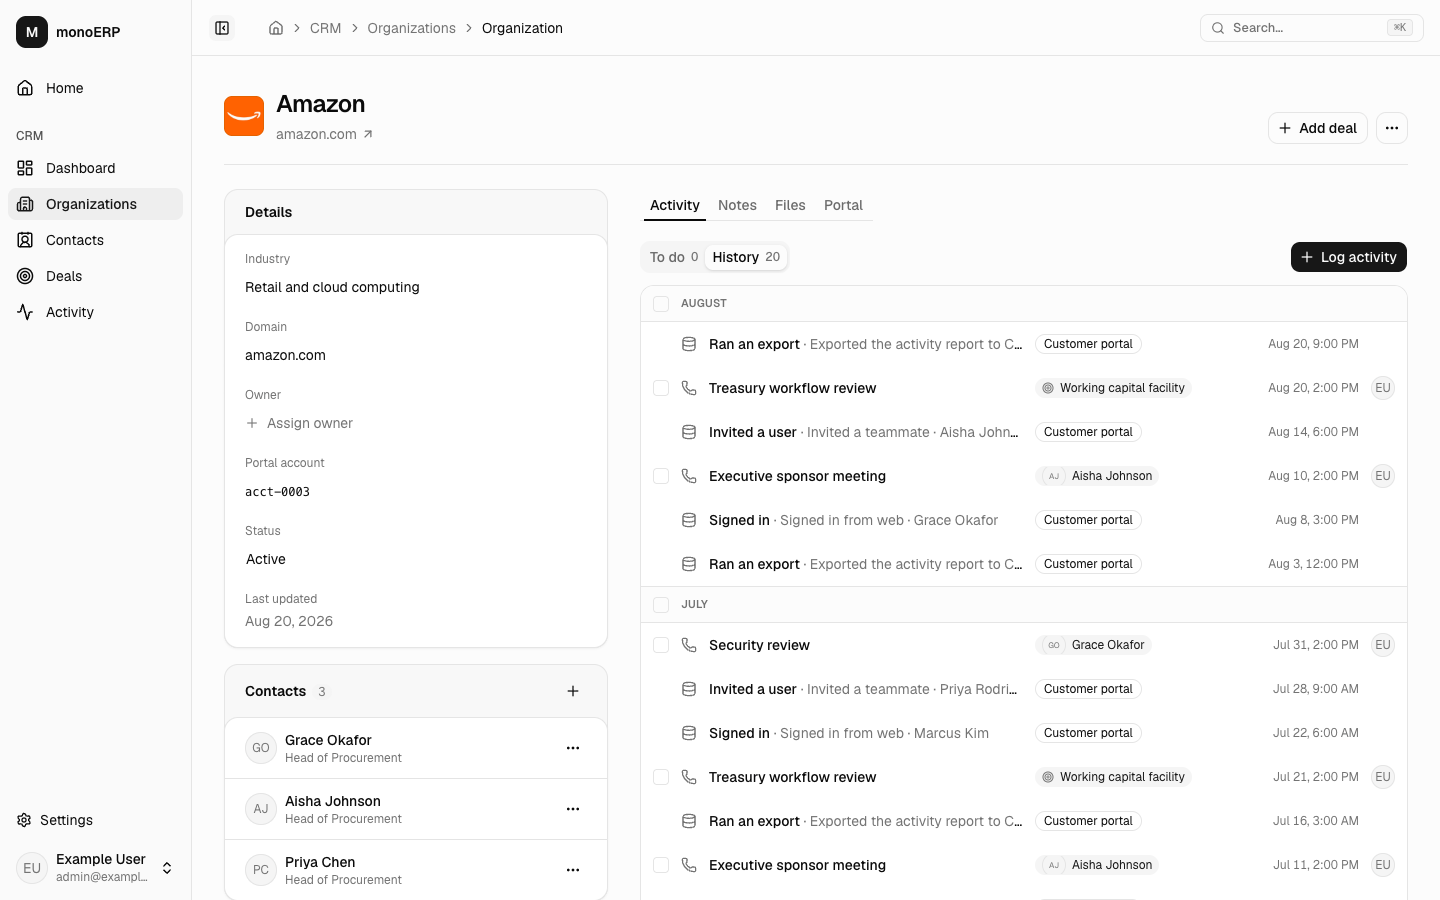
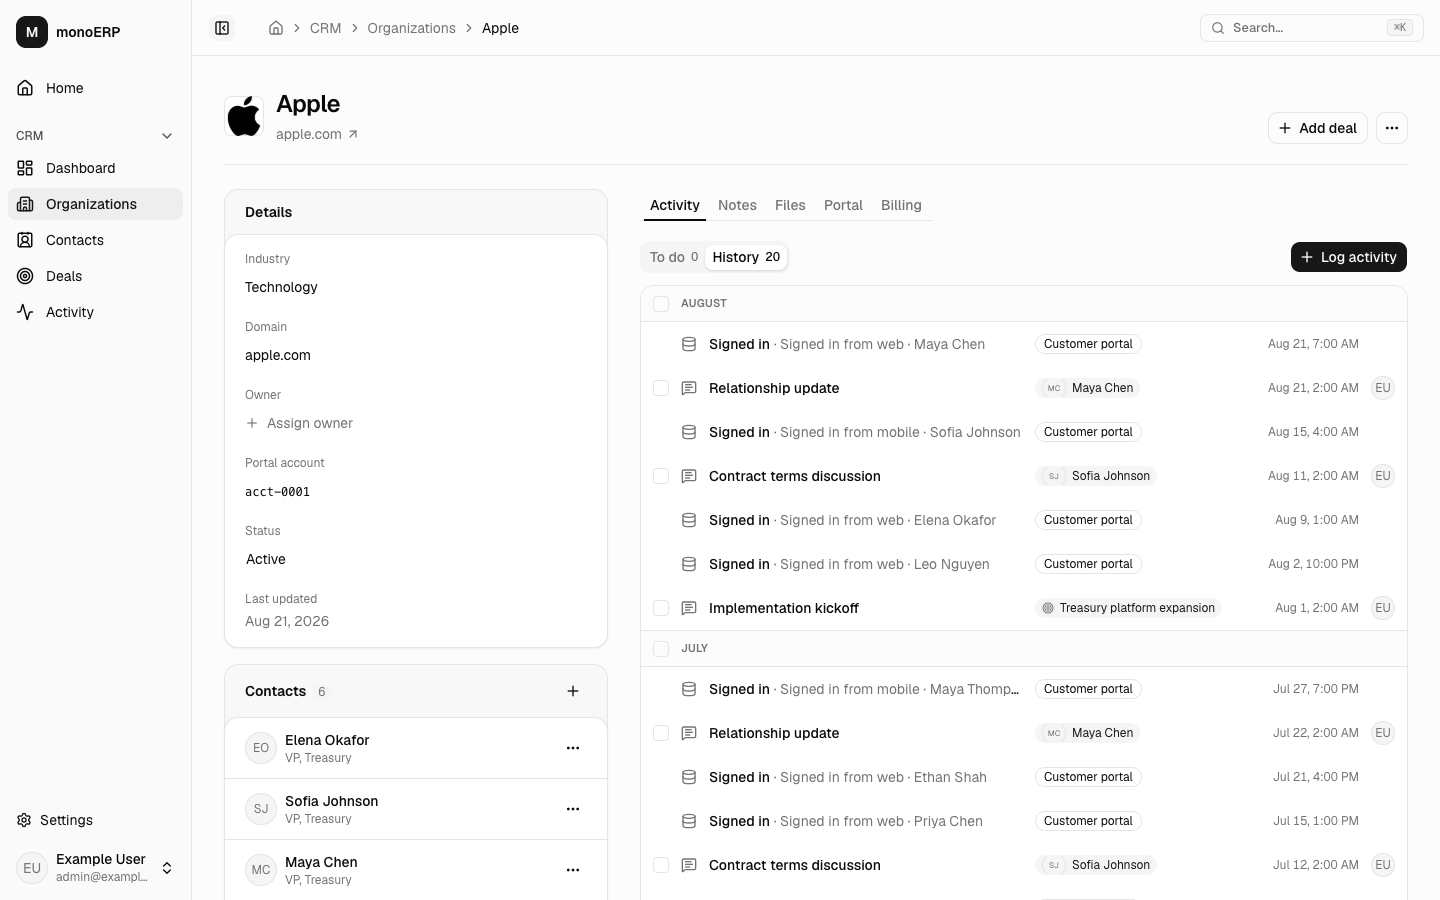
Rewrite the monoERP README in the shared format with a fresh hero

diff --git a/starters/monoerp/README.md b/starters/monoerp/README.md
@@ -21,17 +21,24 @@
 </p>
 
 <p align="center">
-  <img alt="An organization in monoERP: CRM details and contacts, with an activity history that mixes CRM calls and meetings with customer portal events from a separate database" src=".github/assets/organization.png" width="900">
+  <img alt="An organization in monoERP: CRM details and contacts, Portal and Billing tabs from other sources, and an activity history that mixes CRM meetings with customer portal events from a separate database" src=".github/assets/organization.png" width="900">
 </p>
 
-## What this is
+## What's inside
 
-Most business data doesn't live in one place. The sales team's records are in one database, and the product's customer data is in another, owned by another team. monoERP shows what building on top of that looks like, without copying data around.
+Most business data doesn't live in one place. The sales team's records are in one database, and the product's customer data is in another, owned by another team. monoERP shows what building on top of that looks like, without copying data around. An organization's page shows its CRM record next to its plan, seats, support tickets, and payments, and it doesn't feel like three systems.
 
-- **CRM module:** organizations, contacts, deals, and activity, stored in PostgreSQL.
-- **Portal (optional demo):** a demo of Monospace's MySQL connector, installed by default to show read-only joins across databases. Remove Stripe first while CRM is installed, then run `pnpm app:remove portal`, then follow the [shared removal steps](connectors/README.md#remove-a-module-connector-or-deploy-target). CRM still works; Portal UI and the dependent Billing tab disappear. See [Portal setup](connectors/portal/README.md).
-- **Stripe (optional demo):** billing, read through a custom Monospace data connector (`connectors/stripe`). Locally it runs against a Stripe emulator, so no Stripe account is needed.
-- **Monospace** joins all three into one typed API with one set of permissions. An organization's page shows its CRM record next to its plan, seats, support tickets, and payments, and it doesn't feel like three systems.
+| Part                        | Kind          | What it adds                                            |
+| --------------------------- | ------------- | ------------------------------------------------------- |
+| [CRM](modules/crm)          | Module        | Organizations, contacts, and deals.                     |
+| [Portal](connectors/portal) | Connector     | Example customer database (a MySQL demo you can remove) |
+| [Stripe](connectors/stripe) | Connector     | Billing data from Stripe                                |
+| [AWS deploy](deploy/aws)    | Deploy target | Fargate, RDS and GitHub OIDC with Alchemy               |
+
+- **CRM** stores organizations, contacts, deals, and activity in PostgreSQL.
+- **Portal** is a read-only MySQL demo, installed by default to show joins across databases. Remove it and CRM still works; the Portal tab and the Billing tab that depends on it disappear.
+- **Stripe** is billing, read through a custom Monospace data connector. Locally it runs against a Stripe emulator, so no Stripe account is needed.
+- **Monospace** joins all three into one typed API with one set of permissions.
 
 More modules can plug in next to the CRM. The app is TanStack Start, React, Tailwind, and shadcn/ui.
 
@@ -40,11 +47,24 @@ More modules can plug in next to the CRM. The app is TanStack Start, React, Tail
 
 ## Quickstart
 
-You need Node 24, pnpm, and Docker. Run `pnpm install` before Docker; it generates the Compose include file.
+You need Node 24, pnpm, and Docker.
+
+Once the Monospace CLI ships `create`, it asks which modules, connectors, and deploy target to keep, then prints the commands below:
+
+```bash
+npx @monospace/cli create my-erp
+```
+
+Until then, download the starter as it is:
 
 ```bash
 npx giget@latest gh:directus/monospace-starter/starters/monoerp monoerp
 cd monoerp
+```
+
+Then run it. `pnpm install` goes before Docker; it generates the Compose include file.
+
+```bash
 cp .env.example .env    # local defaults; change nothing to start
 pnpm install
 docker compose up -d --wait --wait-timeout 180 # Monospace, both databases, a local Stripe, RabbitMQ, Mailpit
@@ -92,6 +112,7 @@ This repo is set up for working with AI coding agents like Claude Code, Codex, a
 | `pnpm test`                                   | Unit tests                                                            |
 | `pnpm --filter @monoerp/web test:browser`     | Browser tests in Chromium, no server needed                           |
 | `pnpm format`                                 | Fix formatting                                                        |
+| `pnpm app:doctor`                             | List the installed parts and check their manifests                    |
 | `pnpm setup:all`                              | Configure the Monospace workspace. Safe to rerun after pulling        |
 | `pnpm build:extensions`                       | Rebuild selected connectors; Monospace picks them up on its own       |
 | `pnpm generate`                               | Rebuild the typed Monospace client after a schema change              |
@@ -99,26 +120,38 @@ This repo is set up for working with AI coding agents like Claude Code, Codex, a
 | `pnpm schema:export`                          | Save Studio changes (labels, field order, and so on) back to the repo |
 | `docker compose --profile full up -d --build` | Run the app in a container too, behind Caddy                          |
 
-## How it fits together
+## Project layout
+
+```text
+apps/web/         The TanStack Start app: shell, sign-in, shared components, generated client
+modules/crm/      The CRM: manifest, pages, reads, writes, SQL, demo data, setup
+connectors/       Portal (MySQL demo) and Stripe (extension, emulator, Billing UI)
+deploy/aws/       Optional AWS deploy
+infra/            Shared Monospace setup, PostgreSQL, Caddy, installed connector builds
+docs/             The guides
+starter.json      Shared ownership manifest and the commands the CLI prints
+```
 
 The browser only talks to the app's own address. The app's server proxies `/api/*` to Monospace, so the Monospace session cookie stays same-origin. Screens call Monospace straight from the browser with the generated SDK and TanStack Query. There's no app database and no API layer of our own.
 
-A module is one folder, `modules/<id>`: manifest, UI, routes, and infrastructure. See [the module layout](docs/modules.md#add-a-module).
-
-| Area           | Path                                                                | Purpose                                                               |
-| -------------- | ------------------------------------------------------------------- | --------------------------------------------------------------------- |
-| Core           | `starter.json`                                                      | Shared ownership manifest                                             |
-| Core           | `apps/web/src/shell`, `apps/web/src/lib`, `apps/web/src/components` | Shell, authentication, and shared UI                                  |
-| Core           | `infra/monospace`, `infra/postgres`                                 | Shared workspace setup and PostgreSQL service                         |
-| Deploy targets | `deploy/<id>/deploy.json`                                           | Optional hosting setup                                                |
-| Modules        | `modules/<id>`                                                      | One folder per module: manifest, UI entry, copy, reads, writes, tests |
-| Modules        | `modules/<id>/routes/{app,settings,public}`                         | Pages, mounted at `/<id>`, `/settings/<id>`, and the site root        |
-| Modules        | `modules/<id>/infra`                                                | SQL, demo data, schema settings, and setup                            |
-| Connectors     | `connectors/<id>`                                                   | Removable external sources and their local stand-ins                  |
-| Connectors     | `connectors/portal`                                                 | Read-only MySQL demo and Portal UI                                    |
-| Connectors     | `connectors/stripe`                                                 | Stripe API extension, local emulator, and Billing UI                  |
+A part is one folder: `modules/<id>`, `connectors/<id>`, or `deploy/<id>`, with its manifest inside (`module.json`, `connector.json`, `deploy.json`). A module's pages live in `modules/<id>/routes/{app,settings,public}`, mounted at `/<id>`, `/settings/<id>`, and the site root. See [the module layout](docs/modules.md#add-a-module).
 
 To change the CRM schema, add a migration in `modules/crm/infra/postgres/migrations`, make the same change in `modules/crm/infra/postgres/init/001_schema.sql`, then run `pnpm db:migrate`, `pnpm setup:introspect`, and `pnpm generate`. [`docs/data-model.md`](docs/data-model.md) has the details.
+
+## Removing parts
+
+Preview with `pnpm app:remove <id> --dry-run`, then run `pnpm app:remove <id>`. The ids are the folder names: `crm`, `portal`, `stripe`, `aws`. Removal deletes the part's folder and anything else its manifest owns, and refuses a part that another installed part requires.
+
+- Removing **Portal** keeps CRM working. Stripe's Billing tab needs Portal, so it turns off, and the command says so. Remove Stripe too if you don't want it.
+- Removing **Stripe** hides the Billing tab.
+- Removing **CRM** leaves the shell, sign-in, and settings; connectors stay installed until removed separately.
+- Removing **AWS** also drops its workflow, package script, and patch.
+
+After a module or connector removal, follow the [shared removal steps](connectors/README.md#remove-a-module-connector-or-deploy-target) to retire its source and regenerate the app. The guides in `docs/` describe the full selection; drop what no longer applies.
+
+## Deploy
+
+See [deployment](docs/deploy.md) for hosting requirements and the optional deploy targets.
 
 ## Docs
 
@@ -132,10 +165,6 @@ To change the CRM schema, add a migration in `modules/crm/infra/postgres/migrati
 | [`monospace.md`](docs/monospace.md)             | Setup scripts, connectors, the generated client, Monospace issues          |
 | [`testing.md`](docs/testing.md)                 | Tests, lint rules, CI                                                      |
 | [`deploy.md`](docs/deploy.md)                   | Hosting the app                                                            |
-
-## Deploy
-
-See [deployment](docs/deploy.md) for hosting requirements and the optional deploy targets.
 
 ## License
 
